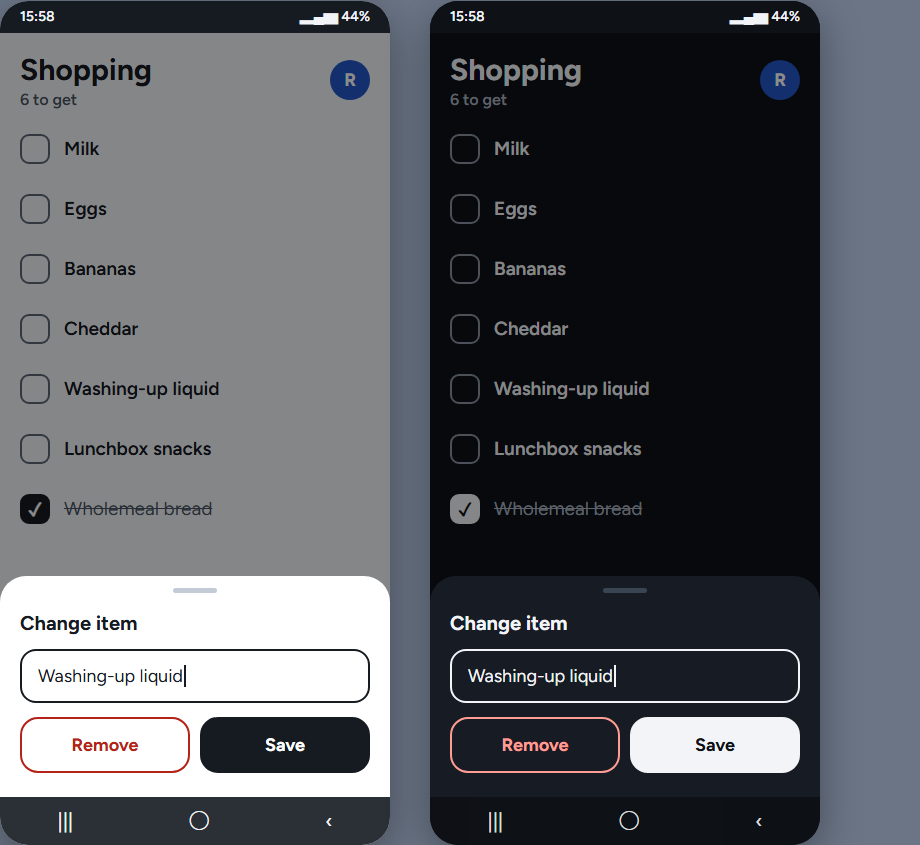
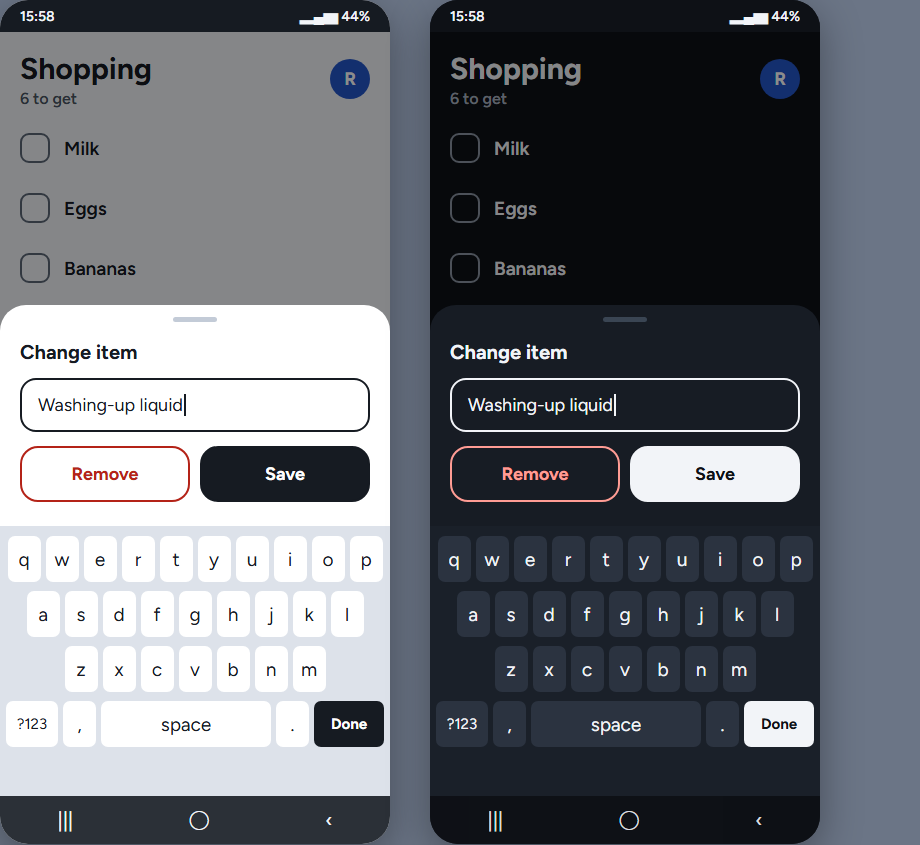
Fix the family app mockups from PR #95's review, and draw Sign out, AB#57
D's and F's counts match what's drawn, E has its keyboard, screen I draws the
circle's Sign out menu as #56 built it, and the README's stray blank line and
phone.html's mention of an open section are gone. F's note says the remove
waits for its Undo, as decided for #57.

diff --git a/design/mockups/family-app/phone.html b/design/mockups/family-app/phone.html
@@ -108,6 +108,14 @@
 	.sheet .field { flex: none; }
 	.sheet .row2 { display: flex; gap: 10px; }
 	.sheet .row2 .btn { flex: 1; justify-content: center; }
+	.sheet.above-keys { bottom: 270px; }
+	.keys-under { position: absolute; left: 0; right: 0; bottom: 0; }
+
+	/* The circle's menu */
+	.menu { position: absolute; top: 66px; right: 16px; width: 240px; padding: 16px; border-radius: 18px; background: var(--card);
+		border: 1px solid var(--line); box-shadow: 0 12px 32px rgb(0 0 0 / 0.25); display: flex; flex-direction: column; gap: 12px;
+		box-sizing: border-box; }
+	.menu p { margin: 0; font-size: 15px; color: var(--dim); }
 	.toast { position: absolute; left: 16px; right: 16px; bottom: 96px; background: var(--ink); color: var(--on-ink);
 		border-radius: 14px; padding: 14px 16px; font-size: 16px; display: flex; justify-content: space-between; }
 	.toast b { text-decoration: underline; }
@@ -117,8 +125,7 @@
 <header class="page">
 	<h1>The family app on a phone</h1>
 	<p>Slice 3 (AB#10). Each screen in the light theme, then the dark one, following the phone's setting, in the Hub's
-	colours and Figtree. Sample items only. The notes under each screen say what it's for; README.md says what's decided and
-	what's still open.</p>
+	colours and Figtree. Sample items only. The notes under each screen say what it's for; README.md says what's decided.</p>
 </header>
 
 <template id="logo">
@@ -150,12 +157,12 @@
 		`<div class="top"><div><h1>Shopping</h1><div class="count">${count}</div></div><div class="me" title="Signed in">R</div></div>`;
 	const addBar = (typing) =>
 		`<div class="add"><div class="field ${typing ? 'typing' : ''}">${typing ? `${typing}<span class="caret"></span>` : 'Add an item'}</div><button class="btn primary">Add</button></div>`;
-	const keyboard =
+	const keyboard = (go) =>
 		'<div class="keyboard">' +
 		['qwertyuiop', 'asdfghjkl', 'zxcvbnm']
 			.map((r) => `<div class="row">${[...r].map((k) => `<span>${k}</span>`).join('')}</div>`)
 			.join('') +
-		'<div class="row"><span class="mid">?123</span><span>,</span><span class="wide">space</span><span>.</span><span class="go">Add</span></div></div>';
+		`<div class="row"><span class="mid">?123</span><span>,</span><span class="wide">space</span><span>.</span><span class="go">${go}</span></div></div>`;
 	const regulars = [
 		['Milk'], ['Eggs'], ['Bananas'], ['Cheddar'], ['Washing-up liquid'], ['Lunchbox snacks'], ['Wholemeal bread', 'done']
 	];
@@ -192,10 +199,10 @@
 			title: 'D · Adding (#57)',
 			note: 'Typing in the add box brings up the phone\'s keyboard; Add on the keyboard or the button adds it. The new item shows at the top straight away, before the backend has answered, and the box stays open for the next one.',
 			body: () =>
-				heading('7 to get') +
-				items([['Oat milk', 'new'], ['Milk'], ['Eggs'], ['Bananas']]) +
+				heading('5 to get') +
+				items([['Oat milk', 'new'], ['Milk'], ['Eggs'], ['Bananas'], ['Cheddar']]) +
 				addBar('Pasta') +
-				keyboard
+				keyboard('Add')
 		},
 		{
 			id: 'E',
@@ -205,17 +212,18 @@
 				heading('6 to get') +
 				items(regulars) +
 				addBar() +
-				`<div class="shade"></div><div class="sheet"><div class="grip"></div><h3>Change item</h3>
+				`<div class="shade"></div><div class="sheet above-keys"><div class="grip"></div><h3>Change item</h3>
 				<div class="field typing">Washing-up liquid<span class="caret"></span></div>
-				<div class="row2"><button class="btn danger">Remove</button><button class="btn primary">Save</button></div></div>`
+				<div class="row2"><button class="btn danger">Remove</button><button class="btn primary">Save</button></div></div>
+				<div class="keys-under">${keyboard('Done')}</div>`
 		},
 		{
 			id: 'F',
 			title: 'F · No signal, changes waiting (#58)',
-			note: 'The list opens from the phone\'s own copy. Changes made with no signal show straight away, marked "waiting", and a banner says how many will send. When the signal\'s back they send by themselves and the banner goes. The toast is the Undo after a remove.',
+			note: 'The list opens from the phone\'s own copy. Changes made with no signal show straight away, marked "waiting", and a banner says how many will send. When the signal\'s back they send by themselves and the banner goes. The toast is the Undo after a remove: the remove waits on the phone until the Undo has gone (#57), so the banner doesn\'t count it yet.',
 			body: () =>
 				`<div class="banner"><span>⚠</span><span><b>No signal</b>2 changes will send when you're back online.</span></div>` +
-				heading('6 to get') +
+				heading('5 to get') +
 				items([
 					['Plasters', '', '<span class="waiting">◷ waiting</span>'],
 					['Milk'], ['Eggs'], ['Bananas'], ['Cheddar'],
@@ -238,6 +246,16 @@
 			title: 'H · Nothing to get (#57)',
 			note: 'An empty list, with the add box ready.',
 			body: () => heading('Nothing to get') + '<div class="empty"><div><b>All done</b>Add something with the box below.</div></div>' + addBar()
+		},
+		{
+			id: 'I',
+			title: 'I · Sign out, from the circle (#56)',
+			note: 'Tapping the circle opens a small menu saying who\'s signed in, with Sign out, which goes back to A. Tapping the circle again, or anywhere else, closes it.',
+			body: () =>
+				heading('6 to get') +
+				items(regulars) +
+				addBar() +
+				'<div class="menu"><p>Signed in as Ross</p><button class="btn primary wide">Sign out</button></div>'
 		}
 	];
 

diff --git a/design/mockups/family-app/README.md b/design/mockups/family-app/README.md
@@ -12,6 +12,7 @@ The family app on a phone (AB#10, slice 3). `phone.html` draws each screen at 39
 | `phone-f.png` | F · No signal, with changes waiting, and Undo after remove | AB#58     |
 | `phone-g.png` | G · The sign-in has run out                                | AB#56, 58 |
 | `phone-h.png` | H · Nothing to get                                         | AB#57     |
+| `phone-i.png` | I · Sign out, from the circle                              | AB#56     |
 
 ## Decided (23 November 2026, with Ross)
 
@@ -22,7 +23,11 @@ The family app on a phone (AB#10, slice 3). `phone.html` draws each screen at 39
 - **Who's signed in is the circle at the top,** with their initial. Tapping it offers Sign out. It's one colour for everyone for now: Member colours live in the Hub's Settings, which the backend doesn't know.
 - **No signal is a banner, not a block.** The list keeps working from the phone's copy; each waiting change is marked, and they send by themselves when the signal's back.
 - **The logo gets an edge in the dark theme,** as its own dark tile nearly vanishes on the Evening background (seen on Ross's phone, AB#55).
-
 - **A change made elsewhere just appears** (AB#59), at the Hub or on another phone, with no flash.
+
+## Decided (24 November 2026, with Ross, AB#57)
+
+- **A removed item waits on the phone until its Undo has gone,** then the remove is sent, or at once if the app is put away. Undo just puts it back, and nothing reaches the backend: the backend never brings a removed item back.
+- **Newest at the top, and it stays there:** the order is the one items were added in, so ticking, unticking or changing an item doesn't move it.
 
 Render the PNGs again after changing `phone.html`: open it in Chromium and screenshot each screen's `.pair`.
